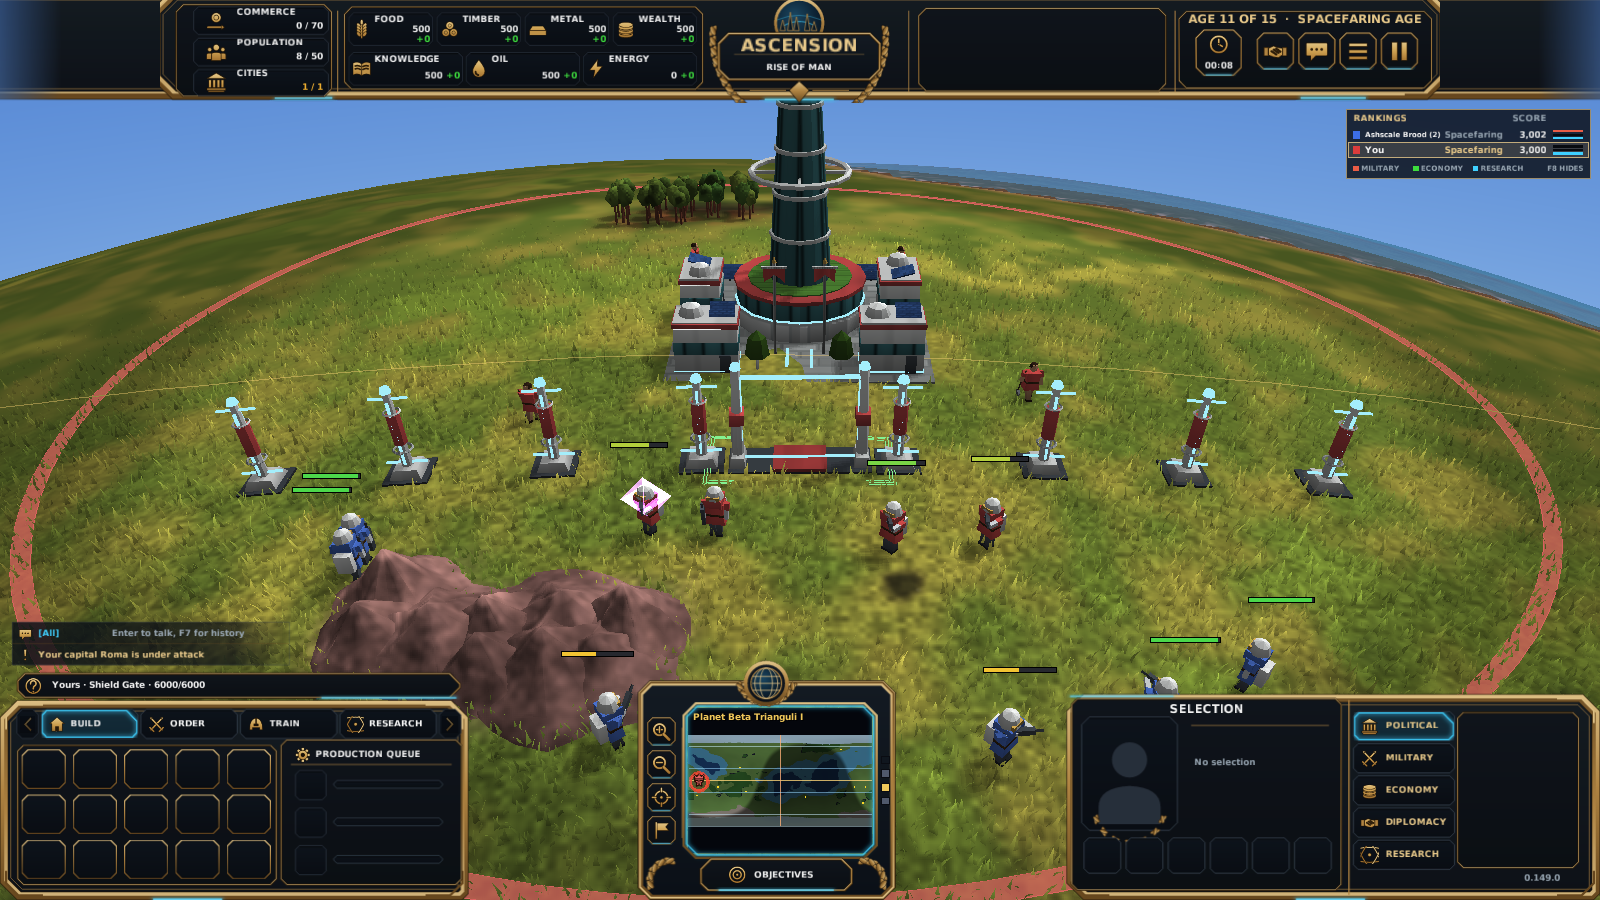
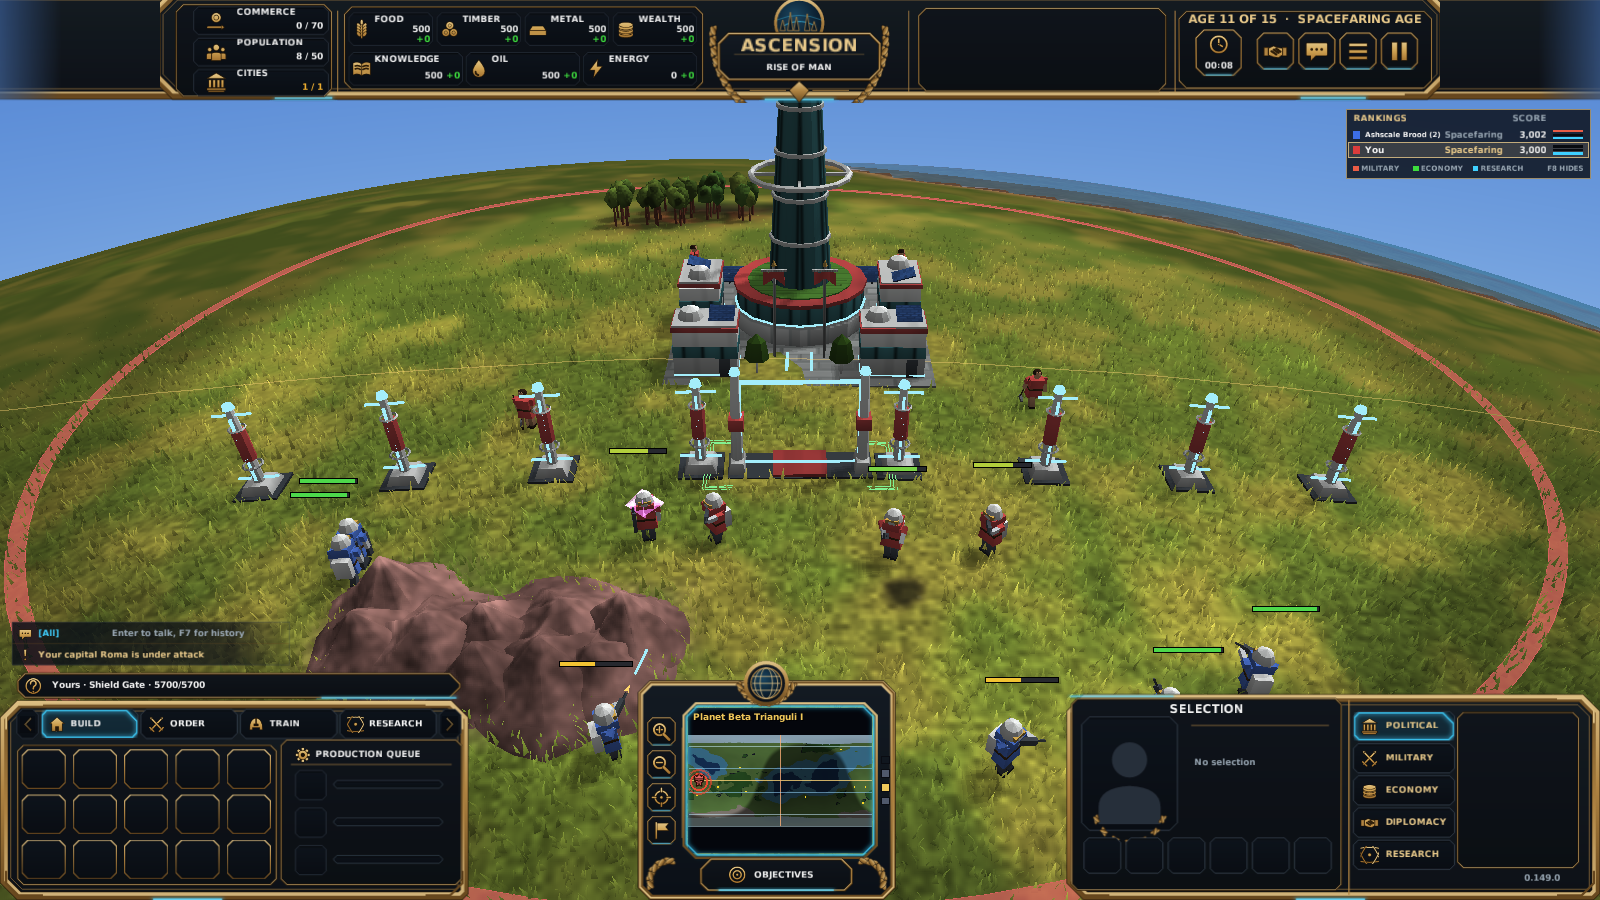
Task 156: emitters start at the defensive line's strength; the orbit town
The shield emitter starts at 3 800 hit points and the shield gate at 5 700,
where the defensive line and the checkpoint end after the Fusion advance, so
the Spacefaring conversion keeps a line's strength and the later ages add to
it. The orbit matrix's test town leaves fortification lines and minefields out
(they are laid across the way, not built in a town, task 147): with the shield
gate at its edge a frigate needed seven volleys; without them the frigate
levels the Spacefaring town in five, the cruiser in four, the battleship in
three. Screenshots retaken with the final numbers.

diff --git a/app/crates/rom-cli/src/orbit_matrix.rs b/app/crates/rom-cli/src/orbit_matrix.rs
@@ -847,7 +847,9 @@ fn town_research(rules: &Rules, age: i64) -> Vec<DefId> {
 
 /// The buildings of a town of `age`, the city first: the city type, then one of every other
 /// building its builders construct in that age (the newest of each line), biggest first;
-/// cities, gather sites and defences that reach the orbit left out.
+/// cities, gather sites and defences that reach the orbit left out, and fortification lines and
+/// minefields too (task 156): they are laid across the way beyond a town, not in it, and do not
+/// count as a town's buildings (task 147).
 pub fn town(world: &World, setup: &Setup, age: i64) -> Vec<DefId> {
     let rules = world.rules();
     let Some(city) = world.city_type(PlayerId(1)) else {
@@ -867,6 +869,8 @@ pub fn town(world: &World, setup: &Setup, age: i64) -> Vec<DefId> {
             && et.class == EntityClass::Building
             && et.territory.as_ref().is_none_or(|t| !t.is_city)
             && !reaches_orbit(rules, b)
+            && et.fortification.is_none()
+            && et.minefield.is_none()
             && b != city
     });
     others.sort_by_key(|b| {

diff --git a/app/db/content/generate.py b/app/db/content/generate.py
@@ -1747,7 +1747,7 @@ def shields(definition, row, tag, need, cost, modifier, emit):
 # segment key, name, gate key, gate name, first age, last age, hit points, more a later age,
 # armour, prices of an emitter, build ticks, the kind before (segment, gate)
 SHIELD_EMITTERS = ('shield_emitter', 'Shield Emitter', 'shield_gate', 'Shield Gate', 'starfaring', 'federation',
-                   4000, 300, 12, {'metal': 45}, 120, ('defensive_line', 'checkpoint'))
+                   3800, 300, 12, {'metal': 45}, 120, ('defensive_line', 'checkpoint'))
 # Tiles of field between two emitters: a straight line has an emitter every FIELD_GAP + 1 tiles.
 FIELD_GAP = 2
 # Energy an emitter pays every FIELD_UPKEEP_PERIOD ticks (an income period); a gate pays

diff --git a/app/crates/rom-sim/src/fields_tests.rs b/app/crates/rom-sim/src/fields_tests.rs
@@ -312,7 +312,7 @@ fn defensive_lines_become_emitters_at_the_spacefaring_advance() {
         let first = w.entity(built[0]).unwrap();
         assert_eq!(
             (first.hp, first.max_hp),
-            (2_000, 4_000),
+            (1_900, 3_800),
             "health keeps its share"
         );
         // The defensive line is out of the build menu.

diff --git a/app/docs/database.md b/app/docs/database.md
@@ -3141,11 +3141,13 @@ table; no save table and no save-format bump. Both lint views stay empty and the
 
   | Type | Ages | Hit points | Armour | Build ticks | Price | Upkeep |
   | --- | --- | --- | --- | --- | --- | --- |
-  | Shield Emitter `bld.shield_emitter` | spacefaring to federation | 4 000, +300 an age | 12, +1 an age | 120, +10 an age | 45 metal | 2 energy every 600 ticks |
-  | Shield Gate `bld.shield_gate` (3 × 1) | the same | 6 000, +450 an age | 12, +1 an age | 240, +20 an age | 135 metal | 6 energy every 600 ticks |
+  | Shield Emitter `bld.shield_emitter` | spacefaring to federation | 3 800, +300 an age | 12, +1 an age | 120, +10 an age | 45 metal | 2 energy every 600 ticks |
+  | Shield Gate `bld.shield_gate` (3 × 1) | the same | 5 700, +450 an age | 12, +1 an age | 240, +20 an age | 135 metal | 6 energy every 600 ticks |
 
   The gate has 150 % of the emitter's hit points, three times its price and upkeep and twice its
-  build time, as the earlier gates. Both are `structure` armour, so artillery, siege and orbital
+  build time, as the earlier gates. The emitter starts where the defensive line ends (3 800 hit
+  points and armour 12 after the Fusion advance, the checkpoint 5 700) and goes on growing.
+  Both are `structure` armour, so artillery, siege and orbital
   bombardment (`explosive` at 200 %) break them; the field itself has no hit points. The
   **Advance to Spacefaring** carries an `upgrade_type` from the defensive line to the emitter
   and from the checkpoint to the shield gate: the standing ones change in place, keeping their
@@ -3183,6 +3185,12 @@ table; no save table and no save-format bump. Both lint views stay empty and the
 - **Computer players**: nothing new; `rom-ai/src/fortify.rs` takes the newest segment type it
   may build, which from the Spacefaring age is the emitter, so a town's nine-tile line becomes
   four emitters and the shield gate with a tile of field either side.
+- **The orbit matrix's town** (`rom-cli/src/orbit_matrix.rs`, `town`, the owner's "three to five
+  volleys level a town" of task 75) leaves fortification lines and minefields out, as they are
+  no town's buildings (task 147): with the shield gate in it, laid at the edge of the test town
+  out of the splash, a frigate needed seven volleys. Without them the Spacefaring town is 23
+  buildings and the frigate levels it in five volleys, the cruiser in four, the battleship in
+  three.
 - **Test setup**: the script line `drain <resource key>` empties player one's store before the
   first tick (`World::drain`), for the picture of a line without energy.
 - **Screenshots** (the game's own paths, `--script`): `img/156-up.png`
